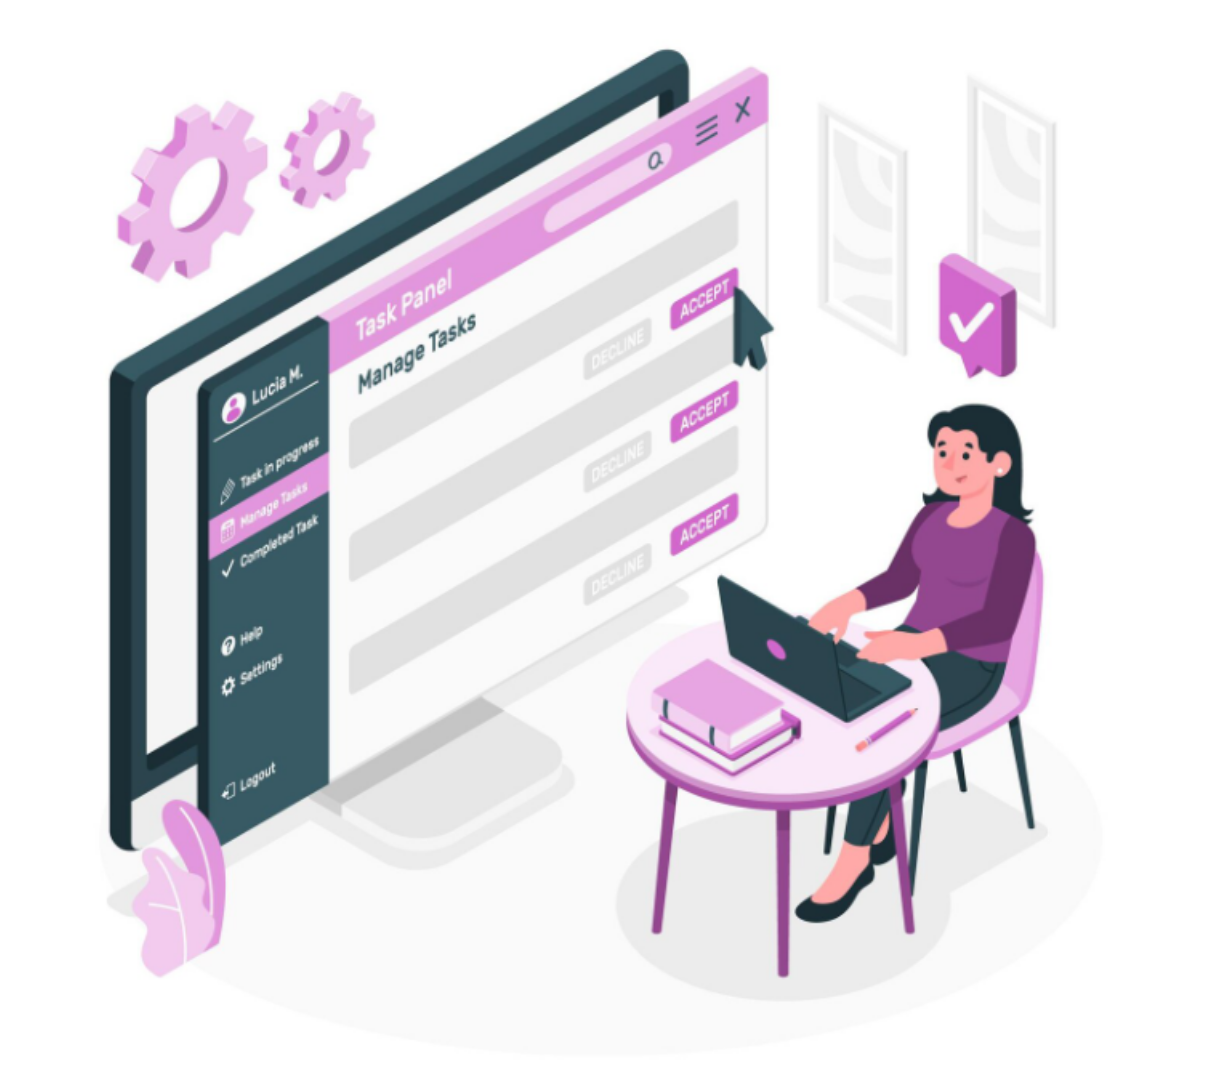
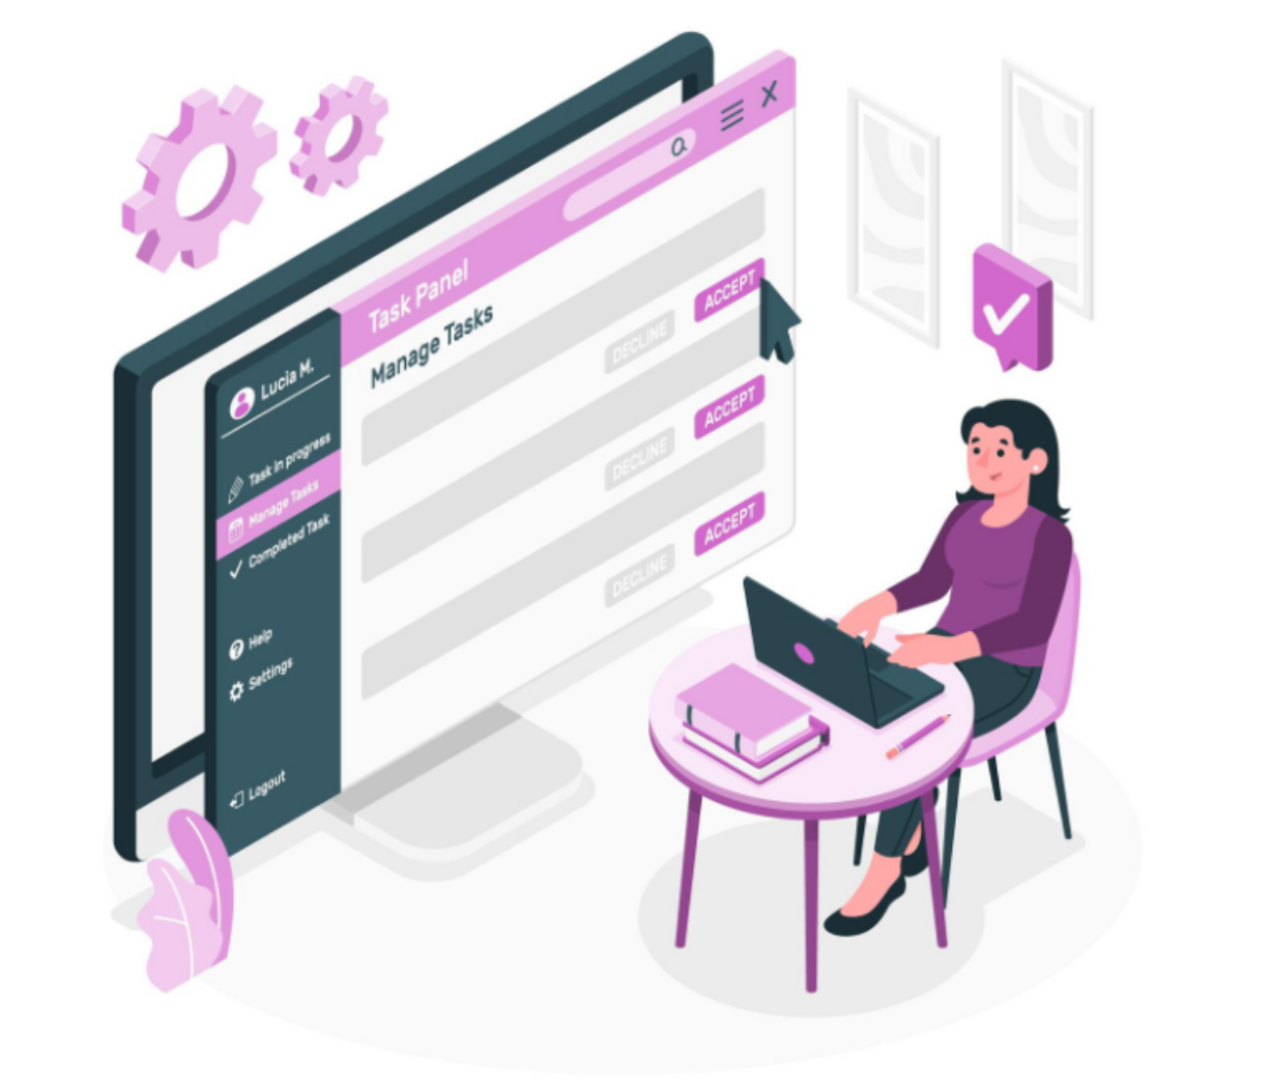
Normalizando resolucion de imagenes main de servicios

diff --git a/app/(client)/servicios/components/Main.jsx b/app/(client)/servicios/components/Main.jsx
@@ -3,12 +3,12 @@ export default function Main({ title, subtitle, text, image, className = "" }) {
     <main
       className={`flex flex-col-reverse items-center justify-between max-w-7xl m-auto md:flex-row px-5 py-8 md:px-24 md:py-24 gap-0 md:gap-12 ${className}`}
     >
-      <div className="text-center md:text-left md:max-w-xl w-full mt-0 md:mt-5">
+      <div className="text-center md:text-left md:max-w-xl w-full mt-0 md:mt-0">
         <h1 className="text-[#523194] font-semibold text-3xl my-4 font-title md:text-5xl">{title}</h1>
         <h2 className="text-[#ff037f] font-semibold text-1xl my-2 uppercase md:text-xl">{subtitle}</h2>
         <p className="text-justify font-bold uppercase text-2xs">{text}</p>
       </div>
-      <img className="max-w-[90%] md:max-w-[50%] mb-4 md:mb-0" src={image || "/placeholder.svg"} alt="" />
+      <img className="max-w-[90%] md:max-w-[35%] mb-4 md:mb-0" src={image || "/placeholder.svg"} alt="" />
     </main>
   )
 }
